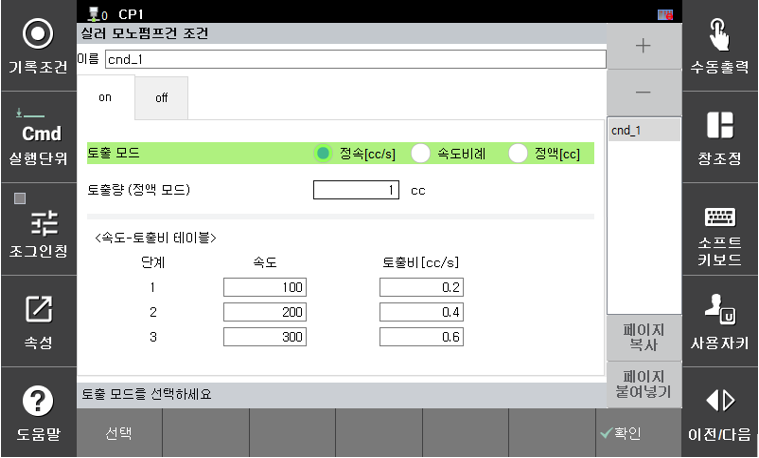
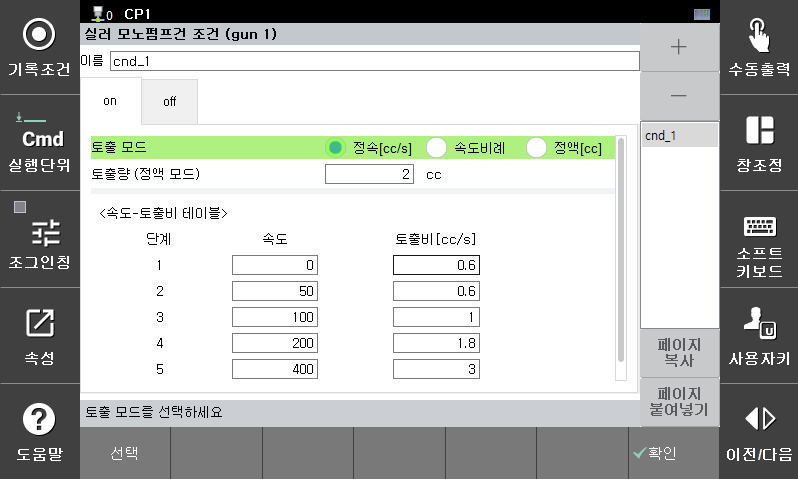
작업 프로그램 구성 추가

diff --git a/book.md b/book.md
@@ -206,6 +206,11 @@ m_sealer on 명령을 수행할 때 토출 조건을 설정합니다.
 
   ![](../../_assets/image13.png)
 
+  로봇의 속도가 낮은 구간에서 로봇 속도에 따른 토출비을 정비례 관계로 적용한다면 하기의 그림과 같이 토출 시작시 토출이 누락되는 현상이 발생합니다. <br>
+  ![](../../_assets/image26.png)
+
+  상기 토출 시작시 부족한 토출량을 보상하기 위해서는 하기의 그림과 같이 로봇의 속도가 0 ~ 50mm/s의 저속에서도 일정량 이상의 토출이 되도록 운용하는 것이 필요합니다. <br>
+  ![](../../_assets/image24.png)
 # 3.2.2 토출 종료 (m_seler off)
 
 m_sealer off명령문 수행시 석백 및 리필을 위한 동작 조건을 설정합니다. 석백은 토출이 끝난 후 잔량 제거를 위한 동작이며 리필은 석백이 끝나고 노즐에 실러를 충진하는 동작입니다. 
@@ -308,3 +313,16 @@ m_sealer off명령문 수행시 석백 및 리필을 위한 동작 조건을 설
 - 로그 파일은 0 ~ 9의 파일명이 순환하면서 생성됩니다.
 {% endhint %}
 
+# 5.6 작업 프로그램 구성
+
+모노펌프 건으로 토출의 시작 시점과 종료 시점을 보다 쉽게 맞추기 위한 작업 프로그램 구성 방법입니다. <br>
+
+일반적으로 사용하는 작업 프로그램 형태를 사용한다면 하기의 그림과 같이 토출의 시작/종료 시점에서 누락이 발생하거나 토출량이 부족한 현상으로 나타납니다. <br>
+
+![](../_assets/image27.png)
+
+상기 현상을 보완하기 위한 방법으로 하기의 그림과 같이 토출전 스텝과 토출후의 스텝을 동일한 위치로 기록한 상태에서 토출후의 스텝에는 accu를 0으로 설정하고 토출전 스텝에는 accu를 1로 설정합니다. 이후에 m_sealer on 명령문에서 ot나 od 명령문을 사용하여 명령문을 실행하는 시점을 조정합니다.
+
+![](../_assets/image25.png)
+
+토출 종료 지점에서도 동일한 방식으로 명령문을 구성하여 사용합니다. 

diff --git a/5-etc/6-job-composition.md b/5-etc/6-job-composition.md
@@ -1,0 +1,13 @@
+# 5.6 작업 프로그램 구성
+
+모노펌프 건으로 토출의 시작 시점과 종료 시점을 보다 쉽게 맞추기 위한 작업 프로그램 구성 방법입니다. <br>
+
+일반적으로 사용하는 작업 프로그램 형태를 사용한다면 하기의 그림과 같이 토출의 시작/종료 시점에서 누락이 발생하거나 토출량이 부족한 현상으로 나타납니다. <br>
+
+![](../_assets/image27.png)
+
+상기 현상을 보완하기 위한 방법으로 하기의 그림과 같이 토출전 스텝과 토출후의 스텝을 동일한 위치로 기록한 상태에서 토출후의 스텝에는 accu를 0으로 설정하고 토출전 스텝에는 accu를 1로 설정합니다. 이후에 m_sealer on 명령문에서 ot나 od 명령문을 사용하여 명령문을 실행하는 시점을 조정합니다.
+
+![](../_assets/image25.png)
+
+토출 종료 지점에서도 동일한 방식으로 명령문을 구성하여 사용합니다. 

diff --git a/3-command-condition/2-condition/1-msealer-on.md b/3-command-condition/2-condition/1-msealer-on.md
@@ -10,3 +10,8 @@ m_sealer on 명령을 수행할 때 토출 조건을 설정합니다.
 
   ![](../../_assets/image13.png)
 
+  로봇의 속도가 낮은 구간에서 로봇 속도에 따른 토출비을 정비례 관계로 적용한다면 하기의 그림과 같이 토출 시작시 토출이 누락되는 현상이 발생합니다. <br>
+  ![](../../_assets/image26.png)
+
+  상기 토출 시작시 부족한 토출량을 보상하기 위해서는 하기의 그림과 같이 로봇의 속도가 0 ~ 50mm/s의 저속에서도 일정량 이상의 토출이 되도록 운용하는 것이 필요합니다. <br>
+  ![](../../_assets/image24.png)

diff --git a/SUMMARY.md b/SUMMARY.md
@@ -27,4 +27,5 @@
   * [5.3 라이선스키 등록](5-etc/3-license-key.md)
   * [5.4 시스템 변수](5-etc/4-system-var.md)
   * [5.5 토출량 이력확인](5-etc/5-flow-amount-log.md)
+  * [5.6 작업 프로그램 구성](5-etc/6-job-composition.md)
 
